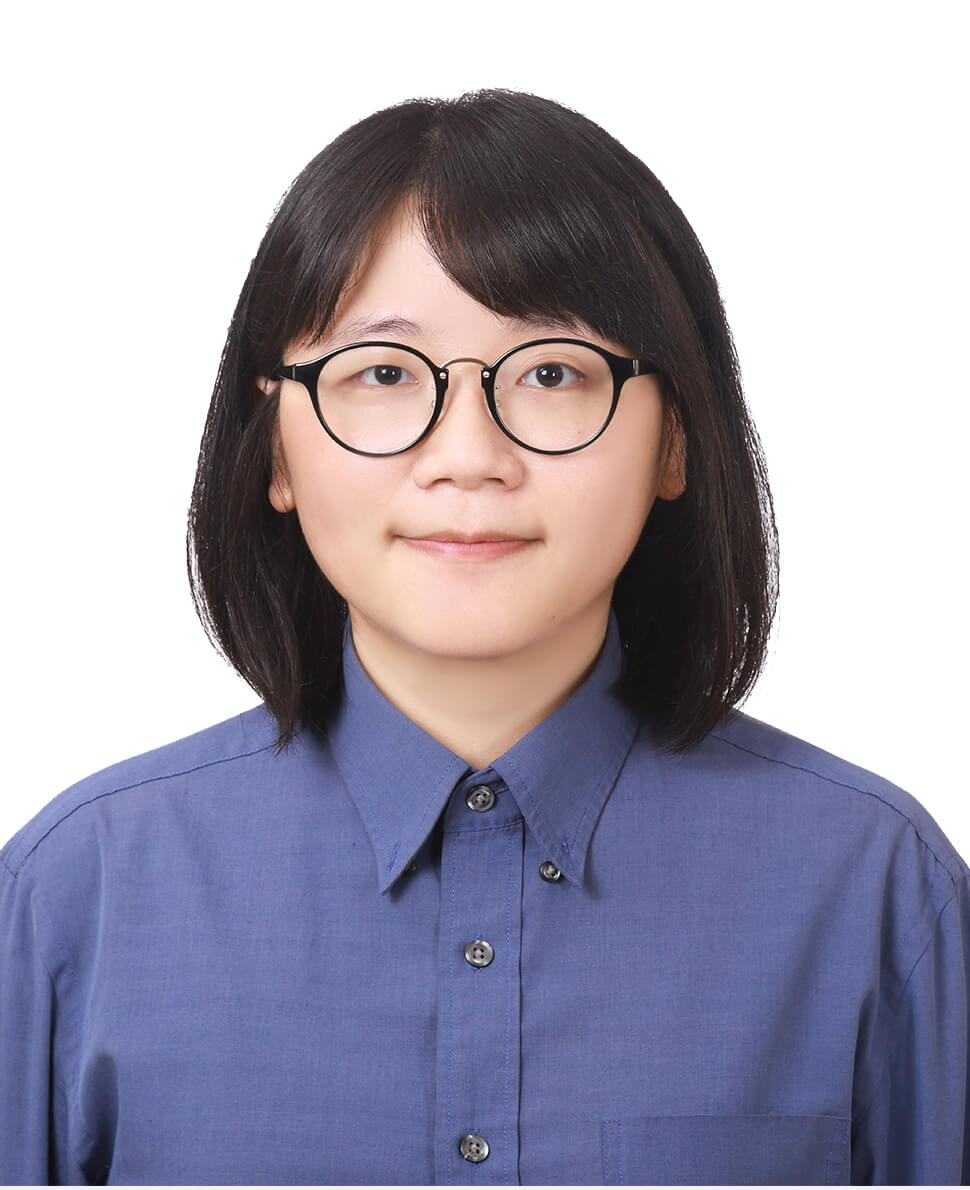
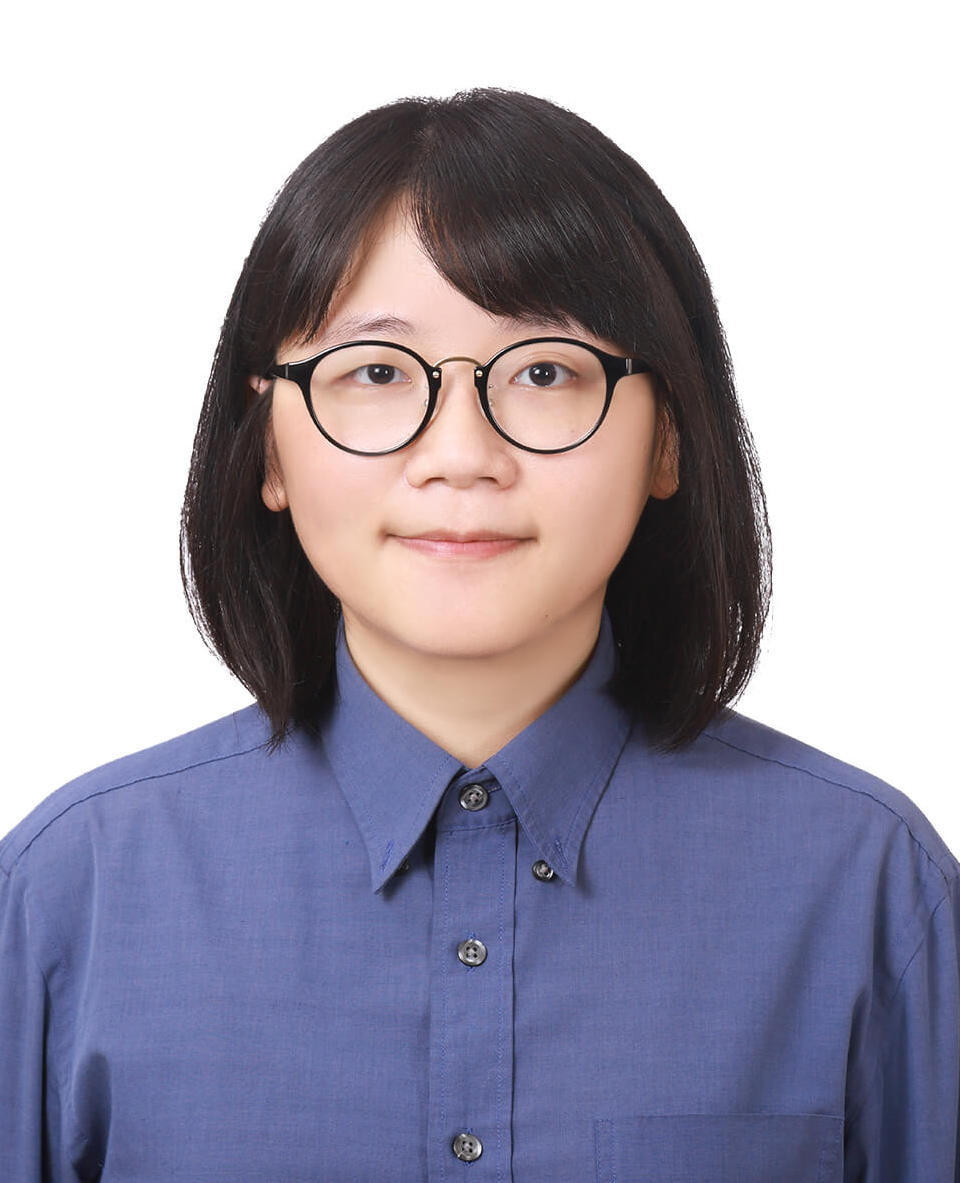
update pic

diff --git a/css/style.css b/css/style.css
@@ -1,1 +1,1 @@
-.circle_box,.menunav.sty-pc .menunav_icon,.menunav.sty-pc .menunav_item,.menunav.sty-mb .menunav_item,.menunav.sty-mb{display:flex;align-items:center;justify-content:center}.menunav.sty-pc .menunav_icon:before,.menunav.sty-pc .menunav_icon:after{content:"";display:block;position:relative}.works,.about{background:repeating-linear-gradient(135deg, #232323, #1d1d1d 5px, #1d1d1d 5px, #1d1d1d 10px);background-color:#1b1b1b}.practice,.experience{background:repeating-linear-gradient(45deg, #f9f9f9, #fdfdfd 5px, #f9f9f9 5px, #f9f9f9 10px);box-shadow:inset 0 0 10px 4px rgba(0,0,0,.3)}.container{padding:0 30px}html,body{height:100%;font-family:Microsoft JhengHei,-apple-system,system-ui,BlinkMacSystemFont,"Segoe UI","Roboto","Oxygen","Ubuntu","Cantarell","Fira Sans","Droid Sans","PingFang TC","Hiragino Sans CNS","Heiti TC","儷黑 Pro","LiHei Pro","Microsoft JhengHei","微軟正黑體","Microsoft YaHei New","Microsoft YaHei","微软雅黑","文泉驛正黑","WenQuanYi Zen Hei",Meiryo,"Helvetica Neue",Helvetica,Arial,sans-serif,"Apple Color Emoji","Segoe UI Emoji","Segoe UI Symbol";font-style:normal;color:#707070}html.stop-scroll,body.stop-scroll{overflow:hidden}body{position:relative;opacity:0;background:#fff}body.loaded{opacity:1;transition:opacity 1s ease}.container{max-width:1024px}img{display:block}.section{padding:80px 0}@media(min-width: 768px){.section{padding:120px 0}}.section_inner{width:100%}.section_header{text-align:center;margin-bottom:3rem}#about .section_header{margin-bottom:2rem;background:#313131;box-shadow:0 3px 6px rgba(0,0,0,.3);padding:10px 20px;border-radius:5px}.section_title,.section_subtitle{margin:0;font-weight:bold}#about .section_title{font-size:24px;text-align:left}#about .section_subtitle{font-size:16px}.about_title{font-size:28px;font-weight:bold;margin-top:5px}.about_author{font-size:20px}.about_skills{margin-top:60px}@media(min-width: 768px){.about_skills{margin-top:100px}}.about_content{position:relative}.about_detail{color:#eaeaea;padding:15px;border-radius:5px;background:#313131;box-shadow:0 3px 6px rgba(0,0,0,.3)}@media(min-width: 576px){.about_detail{padding:30px}}.about_contact{padding:0;margin:0;list-style:none}.about_link{display:block;width:35px;height:35px;border-radius:5px;display:flex;justify-content:center;align-items:center;transition:.3s;color:#eaeaea;background:#b5495b;box-shadow:0 3px 6px rgba(0,0,0,.3)}.about_link:hover{color:#b5495b;background:#eaeaea}.about_pic{margin-bottom:1rem}@media(min-width: 576px){.about_pic{margin-bottom:0}}.about_img{display:block}.practice_item{margin-bottom:1rem}.timeline{border-radius:5px}@media(min-width: 576px){.timeline{background-color:#fff;box-shadow:0 3px 10px rgba(0,0,0,.2);padding:50px 30px}}.timeline .is\:off{pointer-events:auto}.timeline_time{margin-bottom:10px}.menunav{position:fixed;z-index:100}.menunav.sty-mb{left:0;bottom:0;width:100%;height:50px;background:#1b1b1b}@media(min-width: 576px){.menunav.sty-mb{display:none}}.menunav.sty-mb .menunav_txt{display:inline-block;font-weight:bold;opacity:0;width:0;overflow:hidden;white-space:nowrap}.menunav.sty-mb .menunav_item{height:100%;width:50px;transition:all .5s}.menunav.sty-mb .menunav_item:last-child{border-right:0;color:#eaeaea;background:#b5495b}.menunav.sty-mb .menunav_item.active{color:#fff;width:calc(100% - 150px);box-shadow:inset 0px 0px 9px 0px #707070;background:#ffb11b}.menunav.sty-mb .menunav_item.active .menunav_txt{opacity:1;width:auto;margin-left:5px}.menunav.sty-pc{top:50%;right:20px;transform:translateY(-50%);display:none}@media(min-width: 576px){.menunav.sty-pc{display:block}}.menunav.sty-pc .menunav_item{flex-direction:row-reverse;margin:20px 0}.menunav.sty-pc .menunav_item:hover .menunav_icon,.menunav.sty-pc .menunav_item.active .menunav_icon{background:#ffb11b;color:#202020}.menunav.sty-pc .menunav_item:hover .menunav_icon:before,.menunav.sty-pc .menunav_item.active .menunav_icon:before{width:35px;height:35px;border:1px solid #ffb11b}.menunav.sty-pc .menunav_item:hover .menunav_icon:after,.menunav.sty-pc .menunav_item.active .menunav_icon:after{opacity:0}.menunav.sty-pc .menunav_item:hover .menunav_txt{font-size:14px;right:35px;opacity:1;color:#ffb11b}.menunav.sty-pc .menunav_item:last-child:hover .menunav_icon,.menunav.sty-pc .menunav_item:last-child.active .menunav_icon{background:#b5495b}.menunav.sty-pc .menunav_item:last-child:hover .menunav_icon:before,.menunav.sty-pc .menunav_item:last-child.active .menunav_icon:before{border:1px solid #b5495b}.menunav.sty-pc .menunav_item:last-child:hover .menunav_txt,.menunav.sty-pc .menunav_item:last-child.active .menunav_txt{color:#b5495b}.menunav.sty-pc .menunav_item:last-child .menunav_icon{background:#b5495b}.menunav.sty-pc .menunav_txt{position:absolute;z-index:1;right:-100%;margin-right:5px;white-space:nowrap;font-size:12px;color:#eaeaea;transition:all .5s;opacity:0}.menunav.sty-pc .menunav_icon{position:relative;background:#bfbfbf;border-radius:50%;width:30px;height:30px;color:#fff;transition:all .5s}.menunav.sty-pc .menunav_icon:before,.menunav.sty-pc .menunav_icon:after{position:absolute;top:50%;left:50%;transform:translate(-50%, -50%);border-radius:50%;width:25px;height:25px;border:1px solid #eaeaea;transition:all .5s}.card{border:0;margin-bottom:1.5rem;transition:.5s}.card_media{position:relative}.card_gallery{position:absolute;bottom:10px;right:10px;z-index:2}.card_name{overflow:hidden;border-bottom:1px solid #dadada;padding-bottom:10px;margin-bottom:10px}.card_txt{font-size:14px;color:#a2a2a2;margin:0;min-height:calc(28px * 1.42)}.card_body .card_link{margin-bottom:1rem}.card_link{display:block}.card:hover{transform:translateY(-10px)}.card_link.off{pointer-events:none}.circle{position:relative;display:flex;justify-content:flex-start;align-items:flex-start;margin-bottom:1.5rem;padding-left:12px}.circle_icon{position:absolute;top:11px;left:8px;width:10px;height:10px;font-size:25px;border-radius:5px;color:#202020}.about_skills .circle_icon{background-color:#ffb11b}.about_dev .circle_icon{background-color:#3282ce}.circle_info{flex:1;padding-left:1rem;min-height:calc(1rem * 1.625)}.circle_title{font-size:20px;color:#eaeaea}.circle_txt{margin:0}.circle_box{margin:0 auto 30px;padding:2px;color:#eaeaea;width:100%;height:100px;border-radius:3px;transition:.3s;font-size:24px;font-weight:bold}[data-lazy=lazy]{transition:1s all;background-size:130% 130%;background-position:centerr bottom}[data-lazy=lazy].loaded{background-size:105% 105%;transform:translate(0, 0);background-position:center center}.embed_lazy{width:100%;height:100%;position:absolute;top:0;left:0;background:#f1f1f1;z-index:2}.embed_lazy.uncover{animation:uncover 1s ease-in-out forwards;animation-delay:.3s}@keyframes uncover{0%{opacity:1}100%{opacity:0}}.modal_container{width:80vh;max-width:900px}.modal .thumb{display:flex;width:100%}.modal .thumb_item{width:20%;margin-right:10px}.modal .thumb .embed_media{background-size:auto 100%}
+.circle_box,.menunav.sty-pc .menunav_icon,.menunav.sty-pc .menunav_item,.menunav.sty-mb .menunav_item,.menunav.sty-mb{display:flex;align-items:center;justify-content:center}.menunav.sty-pc .menunav_icon:before,.menunav.sty-pc .menunav_icon:after{content:"";display:block;position:relative}.works,.about{background:repeating-linear-gradient(135deg, #232323, #1d1d1d 5px, #1d1d1d 5px, #1d1d1d 10px);background-color:#1b1b1b}.practice,.experience{background:repeating-linear-gradient(45deg, #f9f9f9, #fdfdfd 5px, #f9f9f9 5px, #f9f9f9 10px);box-shadow:inset 0 0 10px 4px rgba(0,0,0,.3)}.container{padding:0 30px}html,body{height:100%;font-family:Microsoft JhengHei,-apple-system,system-ui,BlinkMacSystemFont,"Segoe UI","Roboto","Oxygen","Ubuntu","Cantarell","Fira Sans","Droid Sans","PingFang TC","Hiragino Sans CNS","Heiti TC","儷黑 Pro","LiHei Pro","Microsoft JhengHei","微軟正黑體","Microsoft YaHei New","Microsoft YaHei","微软雅黑","文泉驛正黑","WenQuanYi Zen Hei",Meiryo,"Helvetica Neue",Helvetica,Arial,sans-serif,"Apple Color Emoji","Segoe UI Emoji","Segoe UI Symbol";font-style:normal;color:#707070}html.stop-scroll,body.stop-scroll{overflow:hidden}body{position:relative;opacity:0;background:#fff}body.loaded{opacity:1;transition:opacity 1s ease}.container{max-width:1024px}img{display:block}.section{padding:80px 0}@media(min-width: 768px){.section{padding:120px 0}}.section_inner{width:100%}.section_header{text-align:center;margin-bottom:3rem}#about .section_header{margin-bottom:2rem;background:#313131;box-shadow:0 3px 6px rgba(0,0,0,.3);padding:10px 20px;border-radius:5px}.section_title,.section_subtitle{margin:0;font-weight:bold}#about .section_title{font-size:24px;text-align:left}#about .section_subtitle{font-size:16px}.about_title{font-size:28px;font-weight:bold;margin-top:5px}.about_author{font-size:20px}.about_skills{margin-top:60px}@media(min-width: 768px){.about_skills{margin-top:100px}}.about_content{position:relative}.about_detail{color:#eaeaea;padding:15px;border-radius:5px;background:#313131;box-shadow:0 3px 6px rgba(0,0,0,.3)}@media(min-width: 576px){.about_detail{padding:30px}}.about_contact{padding:0;margin:0;list-style:none}.about_link{display:block;width:35px;height:35px;border-radius:5px;display:flex;justify-content:center;align-items:center;transition:.3s;color:#eaeaea;background:#b5495b;box-shadow:0 3px 6px rgba(0,0,0,.3)}.about_link:hover{color:#b5495b;background:#eaeaea}.about_pic{margin-bottom:1rem;overflow:hidden;border-radius:5px;background:#313131;box-shadow:0 3px 6px rgba(0,0,0,.3)}@media(min-width: 576px){.about_pic{margin-bottom:0}}.about_img{display:block}.practice_item{margin-bottom:1rem}.timeline{border-radius:5px}@media(min-width: 576px){.timeline{background-color:#fff;box-shadow:0 3px 10px rgba(0,0,0,.2);padding:50px 30px}}.timeline .is\:off{pointer-events:auto}.timeline_time{margin-bottom:10px}.menunav{position:fixed;z-index:100}.menunav.sty-mb{left:0;bottom:0;width:100%;height:50px;background:#1b1b1b}@media(min-width: 576px){.menunav.sty-mb{display:none}}.menunav.sty-mb .menunav_txt{display:inline-block;font-weight:bold;opacity:0;width:0;overflow:hidden;white-space:nowrap}.menunav.sty-mb .menunav_item{height:100%;width:50px;transition:all .5s}.menunav.sty-mb .menunav_item:last-child{border-right:0;color:#eaeaea;background:#b5495b}.menunav.sty-mb .menunav_item.active{color:#fff;width:calc(100% - 150px);box-shadow:inset 0px 0px 9px 0px #707070;background:#ffb11b}.menunav.sty-mb .menunav_item.active .menunav_txt{opacity:1;width:auto;margin-left:5px}.menunav.sty-pc{top:50%;right:20px;transform:translateY(-50%);display:none}@media(min-width: 576px){.menunav.sty-pc{display:block}}.menunav.sty-pc .menunav_item{flex-direction:row-reverse;margin:20px 0}.menunav.sty-pc .menunav_item:hover .menunav_icon,.menunav.sty-pc .menunav_item.active .menunav_icon{background:#ffb11b;color:#202020}.menunav.sty-pc .menunav_item:hover .menunav_icon:before,.menunav.sty-pc .menunav_item.active .menunav_icon:before{width:35px;height:35px;border:1px solid #ffb11b}.menunav.sty-pc .menunav_item:hover .menunav_icon:after,.menunav.sty-pc .menunav_item.active .menunav_icon:after{opacity:0}.menunav.sty-pc .menunav_item:hover .menunav_txt{font-size:14px;right:35px;opacity:1;color:#ffb11b}.menunav.sty-pc .menunav_item:last-child:hover .menunav_icon,.menunav.sty-pc .menunav_item:last-child.active .menunav_icon{background:#b5495b}.menunav.sty-pc .menunav_item:last-child:hover .menunav_icon:before,.menunav.sty-pc .menunav_item:last-child.active .menunav_icon:before{border:1px solid #b5495b}.menunav.sty-pc .menunav_item:last-child:hover .menunav_txt,.menunav.sty-pc .menunav_item:last-child.active .menunav_txt{color:#b5495b}.menunav.sty-pc .menunav_item:last-child .menunav_icon{background:#b5495b}.menunav.sty-pc .menunav_txt{position:absolute;z-index:1;right:-100%;margin-right:5px;white-space:nowrap;font-size:12px;color:#eaeaea;transition:all .5s;opacity:0}.menunav.sty-pc .menunav_icon{position:relative;background:#bfbfbf;border-radius:50%;width:30px;height:30px;color:#fff;transition:all .5s}.menunav.sty-pc .menunav_icon:before,.menunav.sty-pc .menunav_icon:after{position:absolute;top:50%;left:50%;transform:translate(-50%, -50%);border-radius:50%;width:25px;height:25px;border:1px solid #eaeaea;transition:all .5s}.card{border:0;margin-bottom:1.5rem;transition:.5s}.card_media{position:relative}.card_gallery{position:absolute;bottom:10px;right:10px;z-index:2}.card_name{overflow:hidden;border-bottom:1px solid #dadada;padding-bottom:10px;margin-bottom:10px}.card_txt{font-size:14px;color:#a2a2a2;margin:0;min-height:calc(28px * 1.42)}.card_body .card_link{margin-bottom:1rem}.card_link{display:block}.card:hover{transform:translateY(-10px)}.card_link.off{pointer-events:none}.circle{position:relative;display:flex;justify-content:flex-start;align-items:flex-start;margin-bottom:1.5rem;padding-left:12px}.circle_icon{position:absolute;top:11px;left:8px;width:10px;height:10px;font-size:25px;border-radius:5px;color:#202020}.about_skills .circle_icon{background-color:#ffb11b}.about_dev .circle_icon{background-color:#3282ce}.circle_info{flex:1;padding-left:1rem;min-height:calc(1rem * 1.625)}.circle_title{font-size:20px;color:#eaeaea}.circle_txt{margin:0}.circle_box{margin:0 auto 30px;padding:2px;color:#eaeaea;width:100%;height:100px;border-radius:3px;transition:.3s;font-size:24px;font-weight:bold}[data-lazy=lazy]{transition:1s all;background-size:130% 130%;background-position:centerr bottom}[data-lazy=lazy].loaded{background-size:105% 105%;transform:translate(0, 0);background-position:center center}.embed_lazy{width:100%;height:100%;position:absolute;top:0;left:0;background:#f1f1f1;z-index:2}.embed_lazy.uncover{animation:uncover 1s ease-in-out forwards;animation-delay:.3s}@keyframes uncover{0%{opacity:1}100%{opacity:0}}.modal_container{width:80vh;max-width:900px}.modal .thumb{display:flex;width:100%}.modal .thumb_item{width:20%;margin-right:10px}.modal .thumb .embed_media{background-size:auto 100%}

diff --git a/index.html b/index.html
@@ -55,7 +55,7 @@
                     <div class="f-row">
                         <div class="f-col:12 f-col@sm:5">
                             <div class="about_pic">
-                                <img src="images/_ann.jpg" class="box-radius about_img" alt="hi我是純安">
+                                <img src="images/ann.jpg" class="box-radius about_img" alt="hi我是純安">
                             </div>
                         </div>
                         <div class="f-col:12 f-col@sm:7">

diff --git a/sass/style.scss b/sass/style.scss
@@ -141,6 +141,10 @@ img {
 
     &_pic {
         margin-bottom: 1rem;
+        overflow: hidden;
+        border-radius: 5px;
+        background: #313131;
+        box-shadow: 0 3px 6px rgba(0, 0, 0, 0.3);
         @include bp-sm {
             margin-bottom: 0;
         }
